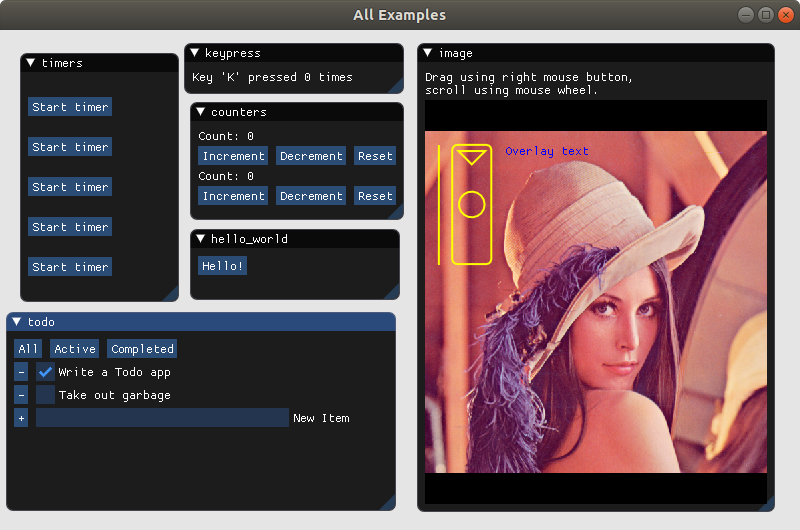
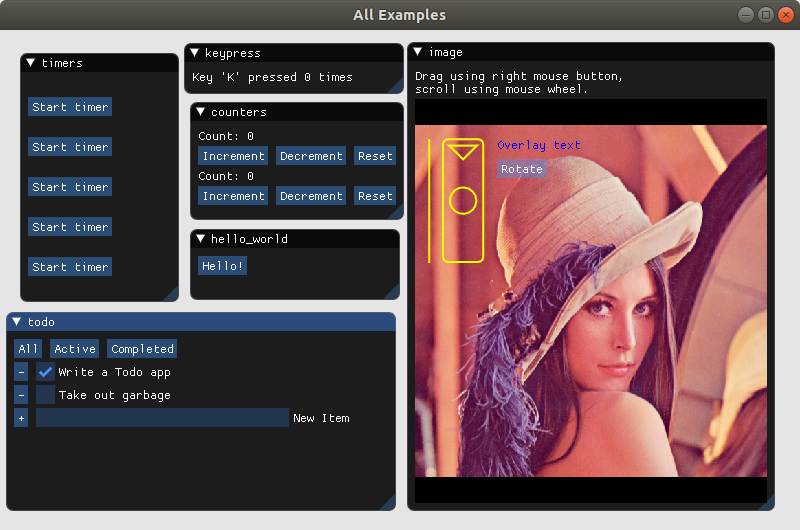
Fix issues with image widget positioning and interactive overlay

Changed region(s): [[0.5, 0.0604, 0.9688, 0.966], [0.9375, 0.7245, 0.9688, 0.7547], [0.9062, 0.6943, 0.9375, 0.7245]]

diff --git a/docs/extra_widgets/image.html b/docs/extra_widgets/image.html
@@ -35,9 +35,10 @@ import numpy as np
 import imgui
 from OpenGL.GL import *
 from concur.integrations import replace_texture, texture
+from concur.widgets import child
 
 
-def _image_begin(state, width=None, height=None):
+def _image_begin(state, width, height):
     &#34;&#34;&#34; A zoomable, draggable image widget.
 
     Three coordinate systems are in use in the widget:
@@ -49,13 +50,6 @@ def _image_begin(state, width=None, height=None):
      - GL space: origin is the same as for image space, but the scaling is
          different: (1,1) marks image&#39;s bottom right corner.
     &#34;&#34;&#34;
-    if width is None:
-        width = imgui.get_content_region_available()[0]
-    if height is None:
-        height = imgui.get_content_region_available()[1]
-    width = max(1, width)
-    height = max(1, height)
-
     state = copy.deepcopy(state)
 
     draw_list = imgui.get_window_draw_list()
@@ -110,7 +104,7 @@ def _image_begin(state, width=None, height=None):
     if state.tex_id is not None:
         draw_list.add_image(state.tex_id, (pos.x, pos.y), (pos.x + width, pos.y + height), tuple(uva), tuple(uvb));
 
-    imgui.push_clip_rect(*pos, pos[0] + width, pos[1] + height, True)
+    # imgui.push_clip_rect(*pos, pos[0] + width, pos[1] + height, True)
 
     return \
         changed, \
@@ -121,7 +115,8 @@ def _image_begin(state, width=None, height=None):
 
 
 def _image_end():
-    imgui.pop_clip_rect()
+    pass
+    # imgui.pop_clip_rect()
 
 
 class TF(object):
@@ -166,18 +161,26 @@ def image(name, state, width=None, height=None, content_gen=None):
     Geometrical objects. See the [image example](https://github.com/potocpav/python-concur/blob/master/examples/image.py) for example usage.
     &#34;&#34;&#34;
     while True:
-        changed, state, im_to_screen, screen_to_im, hovered = \
-            _image_begin(state, width, height)
+        if width is None:
+            w = imgui.get_content_region_available()[0]
+        if height is None:
+            h = imgui.get_content_region_available()[1]
+        w = max(1, w)
+        h = max(1, h)
 
-        if content_gen is not None:
-            try:
+        imgui.begin_child(&#34;Image container&#34;, w, h, False, flags=imgui.WINDOW_NO_SCROLLBAR | imgui.WINDOW_NO_SCROLL_WITH_MOUSE)
+        changed, state, im_to_screen, screen_to_im, hovered = \
+            _image_begin(state, w, h)
+
+        try:
+            if content_gen is not None:
                 tf = TF(im_to_screen, screen_to_im, hovered)
                 next(content_gen(tf))
-            except StopIteration as e:
-                _image_end()
-                return e.value
-
-        _image_end()
+        except StopIteration as e:
+            return e.value
+        finally:
+            _image_end()
+            imgui.end_child()
         if changed:
             return name, state
         else:
@@ -257,18 +260,26 @@ Geometrical objects. See the <a href="https://github.com/potocpav/python-concur/
     Geometrical objects. See the [image example](https://github.com/potocpav/python-concur/blob/master/examples/image.py) for example usage.
     &#34;&#34;&#34;
     while True:
-        changed, state, im_to_screen, screen_to_im, hovered = \
-            _image_begin(state, width, height)
+        if width is None:
+            w = imgui.get_content_region_available()[0]
+        if height is None:
+            h = imgui.get_content_region_available()[1]
+        w = max(1, w)
+        h = max(1, h)
 
-        if content_gen is not None:
-            try:
+        imgui.begin_child(&#34;Image container&#34;, w, h, False, flags=imgui.WINDOW_NO_SCROLLBAR | imgui.WINDOW_NO_SCROLL_WITH_MOUSE)
+        changed, state, im_to_screen, screen_to_im, hovered = \
+            _image_begin(state, w, h)
+
+        try:
+            if content_gen is not None:
                 tf = TF(im_to_screen, screen_to_im, hovered)
                 next(content_gen(tf))
-            except StopIteration as e:
-                _image_end()
-                return e.value
-
-        _image_end()
+        except StopIteration as e:
+            return e.value
+        finally:
+            _image_end()
+            imgui.end_child()
         if changed:
             return name, state
         else:

diff --git a/docs/widgets.html b/docs/widgets.html
@@ -47,6 +47,7 @@ All of the functions in this module are re-exported in the root module for conve
 &#34;&#34;&#34;
 
 
+import numpy as np # for `transform`
 from typing import Iterable, Any, Tuple
 import imgui
 
@@ -178,7 +179,28 @@ def slider_int(label, min_value, max_value, *args, **kwargs):
 
 def slider_float(label, min_value, max_value, *args, **kwargs):
     &#34;&#34;&#34; Float selection slider. &#34;&#34;&#34;
-    return interactive_elem(imgui.slider_float, label, min_value, max_value, *args, **kwargs)</code></pre>
+    return interactive_elem(imgui.slider_float, label, min_value, max_value, *args, **kwargs)
+
+
+def transform(x, y, widget, tf=None):
+    # TODO: move somewhere else
+    &#34;&#34;&#34; Use `concur.extra_widgets.image.TF` and a specified position `x, y` to transform a widget.
+
+    Only widget position will be affected (not scaling), and it will be positioned so that its upper left corner
+    is at `[x, y]`.
+    &#34;&#34;&#34;
+    while True:
+        old_pos = imgui.get_cursor_screen_pos()
+        if tf is not None:
+            x, y = np.matmul(tf.i2s, [x, y, 1])
+        imgui.set_cursor_screen_pos((x, y))
+        try:
+            next(widget)
+        except StopIteration as e:
+            return e.value
+        finally:
+            imgui.set_cursor_screen_pos(old_pos)
+        yield</code></pre>
 </details>
 </section>
 <section>
@@ -448,6 +470,38 @@ def slider_float(label, min_value, max_value, *args, **kwargs):
     return lift(imgui.text_colored, s, r, g, b, a)</code></pre>
 </details>
 </dd>
+<dt id="concur.widgets.transform"><code class="name flex">
+<span>def <span class="ident">transform</span></span>(<span>x, y, widget, tf=None)</span>
+</code></dt>
+<dd>
+<section class="desc"><p>Use <a title="concur.extra_widgets.image.TF" href="extra_widgets/image.html#concur.extra_widgets.image.TF"><code>TF</code></a> and a specified position <code>x, y</code> to transform a widget.</p>
+<p>Only widget position will be affected (not scaling), and it will be positioned so that its upper left corner
+is at <code>[x, y]</code>.</p></section>
+<details class="source">
+<summary>
+<span>Expand source code</span>
+</summary>
+<pre><code class="python">def transform(x, y, widget, tf=None):
+    # TODO: move somewhere else
+    &#34;&#34;&#34; Use `concur.extra_widgets.image.TF` and a specified position `x, y` to transform a widget.
+
+    Only widget position will be affected (not scaling), and it will be positioned so that its upper left corner
+    is at `[x, y]`.
+    &#34;&#34;&#34;
+    while True:
+        old_pos = imgui.get_cursor_screen_pos()
+        if tf is not None:
+            x, y = np.matmul(tf.i2s, [x, y, 1])
+        imgui.set_cursor_screen_pos((x, y))
+        try:
+            next(widget)
+        except StopIteration as e:
+            return e.value
+        finally:
+            imgui.set_cursor_screen_pos(old_pos)
+        yield</code></pre>
+</details>
+</dd>
 <dt id="concur.widgets.window"><code class="name flex">
 <span>def <span class="ident">window</span></span>(<span>title, widget, position=None, size=None, flags=0)</span>
 </code></dt>
@@ -514,6 +568,7 @@ def slider_float(label, min_value, max_value, *args, **kwargs):
 <li><code><a title="concur.widgets.test_window" href="#concur.widgets.test_window">test_window</a></code></li>
 <li><code><a title="concur.widgets.text" href="#concur.widgets.text">text</a></code></li>
 <li><code><a title="concur.widgets.text_colored" href="#concur.widgets.text_colored">text_colored</a></code></li>
+<li><code><a title="concur.widgets.transform" href="#concur.widgets.transform">transform</a></code></li>
 <li><code><a title="concur.widgets.window" href="#concur.widgets.window">window</a></code></li>
 </ul>
 </li>

diff --git a/concur/extra_widgets/image.py b/concur/extra_widgets/image.py
@@ -8,9 +8,10 @@ import numpy as np
 import imgui
 from OpenGL.GL import *
 from concur.integrations import replace_texture, texture
+from concur.widgets import child
 
 
-def _image_begin(state, width=None, height=None):
+def _image_begin(state, width, height):
     """ A zoomable, draggable image widget.
 
     Three coordinate systems are in use in the widget:
@@ -22,13 +23,6 @@ def _image_begin(state, width=None, height=None):
      - GL space: origin is the same as for image space, but the scaling is
          different: (1,1) marks image's bottom right corner.
     """
-    if width is None:
-        width = imgui.get_content_region_available()[0]
-    if height is None:
-        height = imgui.get_content_region_available()[1]
-    width = max(1, width)
-    height = max(1, height)
-
     state = copy.deepcopy(state)
 
     draw_list = imgui.get_window_draw_list()
@@ -83,7 +77,7 @@ def _image_begin(state, width=None, height=None):
     if state.tex_id is not None:
         draw_list.add_image(state.tex_id, (pos.x, pos.y), (pos.x + width, pos.y + height), tuple(uva), tuple(uvb));
 
-    imgui.push_clip_rect(*pos, pos[0] + width, pos[1] + height, True)
+    # imgui.push_clip_rect(*pos, pos[0] + width, pos[1] + height, True)
 
     return \
         changed, \
@@ -94,7 +88,8 @@ def _image_begin(state, width=None, height=None):
 
 
 def _image_end():
-    imgui.pop_clip_rect()
+    pass
+    # imgui.pop_clip_rect()
 
 
 class TF(object):
@@ -139,18 +134,26 @@ def image(name, state, width=None, height=None, content_gen=None):
     Geometrical objects. See the [image example](https://github.com/potocpav/python-concur/blob/master/examples/image.py) for example usage.
     """
     while True:
-        changed, state, im_to_screen, screen_to_im, hovered = \
-            _image_begin(state, width, height)
+        if width is None:
+            w = imgui.get_content_region_available()[0]
+        if height is None:
+            h = imgui.get_content_region_available()[1]
+        w = max(1, w)
+        h = max(1, h)
 
-        if content_gen is not None:
-            try:
+        imgui.begin_child("Image container", w, h, False, flags=imgui.WINDOW_NO_SCROLLBAR | imgui.WINDOW_NO_SCROLL_WITH_MOUSE)
+        changed, state, im_to_screen, screen_to_im, hovered = \
+            _image_begin(state, w, h)
+
+        try:
+            if content_gen is not None:
                 tf = TF(im_to_screen, screen_to_im, hovered)
                 next(content_gen(tf))
-            except StopIteration as e:
-                _image_end()
-                return e.value
-
-        _image_end()
+        except StopIteration as e:
+            return e.value
+        finally:
+            _image_end()
+            imgui.end_child()
         if changed:
             return name, state
         else:

diff --git a/concur/widgets.py b/concur/widgets.py
@@ -13,6 +13,7 @@ All of the functions in this module are re-exported in the root module for conve
 """
 
 
+import numpy as np # for `transform`
 from typing import Iterable, Any, Tuple
 import imgui
 
@@ -145,3 +146,24 @@ def slider_int(label, min_value, max_value, *args, **kwargs):
 def slider_float(label, min_value, max_value, *args, **kwargs):
     """ Float selection slider. """
     return interactive_elem(imgui.slider_float, label, min_value, max_value, *args, **kwargs)
+
+
+def transform(x, y, widget, tf=None):
+    # TODO: move somewhere else
+    """ Use `concur.extra_widgets.image.TF` and a specified position `x, y` to transform a widget.
+
+    Only widget position will be affected (not scaling), and it will be positioned so that its upper left corner
+    is at `[x, y]`.
+    """
+    while True:
+        old_pos = imgui.get_cursor_screen_pos()
+        if tf is not None:
+            x, y = np.matmul(tf.i2s, [x, y, 1])
+        imgui.set_cursor_screen_pos((x, y))
+        try:
+            next(widget)
+        except StopIteration as e:
+            return e.value
+        finally:
+            imgui.set_cursor_screen_pos(old_pos)
+        yield

diff --git a/examples/image.py b/examples/image.py
@@ -12,17 +12,23 @@ def overlay(tf):
         , c.draw.circle(70, 110, 20, yellow, 2, 16, tf=tf)
         , c.draw.text(120, 20, (0,0,1,1), "Overlay text", tf=tf)
         , c.draw.polyline([(50, 30), (90, 30), (70, 50)], yellow, True, 2, tf=tf)
+        , c.transform(120, 50, c.button("Rotate"), tf=tf)
         ])
 
 
 def app():
-    view = c.ViewState(Image.open("examples/lenna.png"))
+    image = Image.open("examples/lenna.png")
+    view = c.ViewState(image)
     while True:
         tag, value = yield from c.orr(
             [ c.text("Drag using right mouse button,\nscroll using mouse wheel.")
             , c.image("Image", view, content_gen=overlay)
             ])
-        view = value
+        if tag == "Image":
+            view = value
+        elif tag == "Rotate":
+            image = image.transpose(Image.ROTATE_270)
+            view.change_image(image)
         yield
 
 
